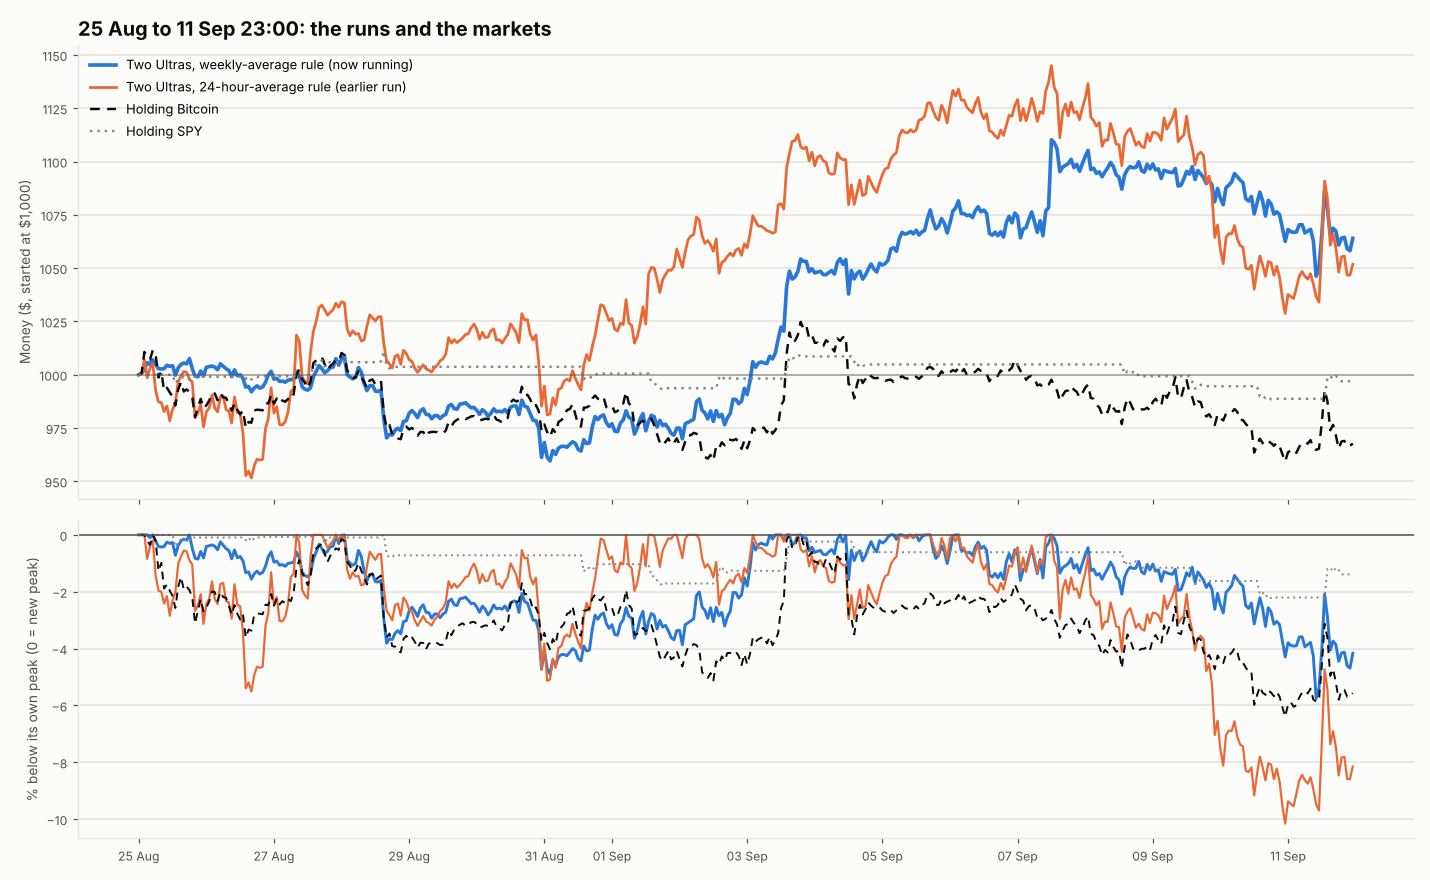
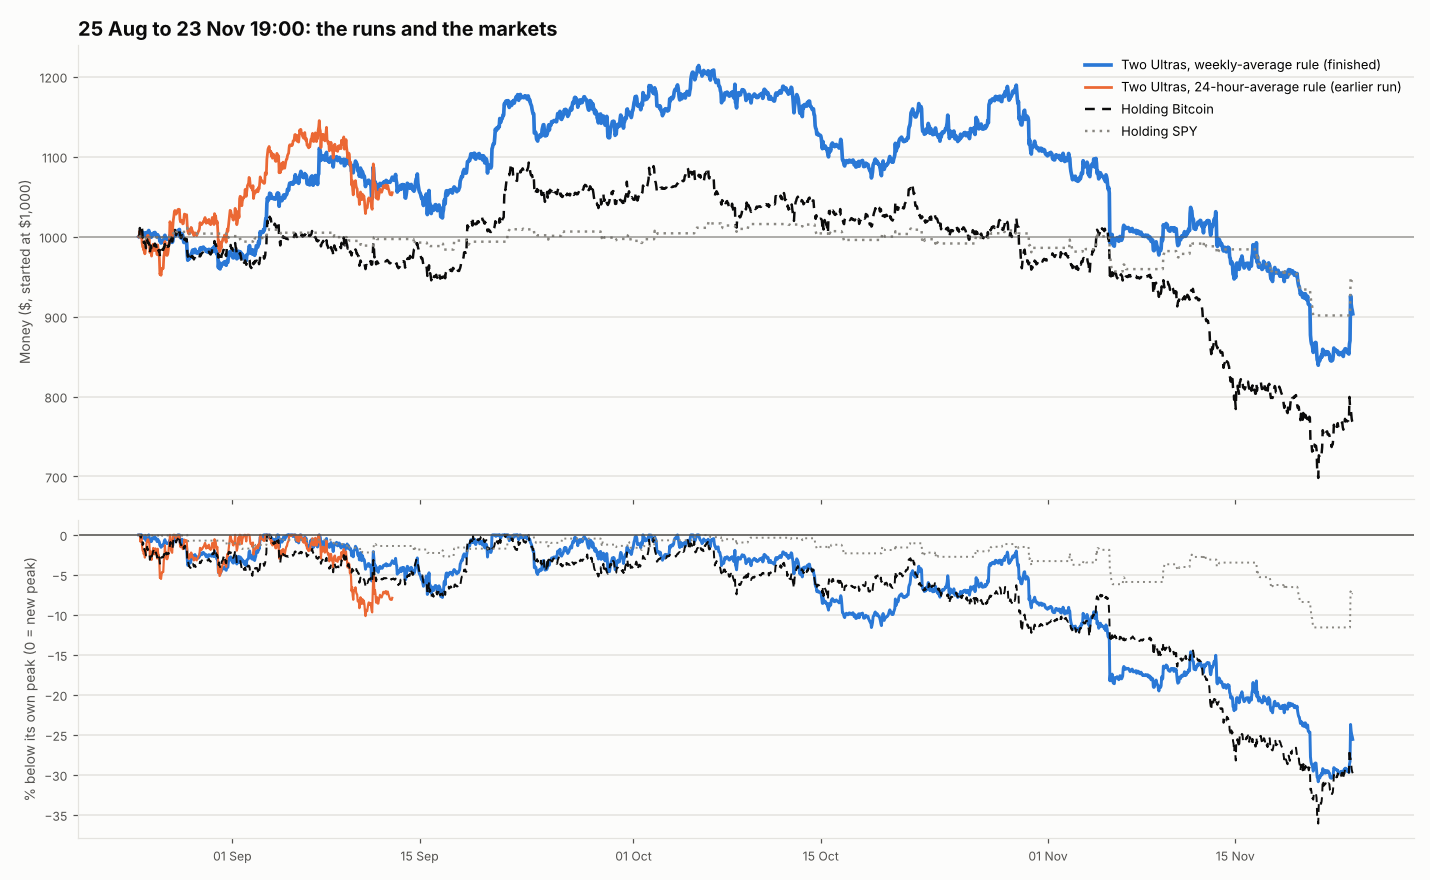
Weekly-rule two-Ultra run finished: final results and update graph
Claude-Session: https://claude.ai/code/session_01Q4zuW2hFjpzuH9a9JaFPqg

diff --git a/mixed/update_chart.py b/mixed/update_chart.py
@@ -26,7 +26,7 @@ def main():
     t_end = wk[-1]["time"]
     old = [r for r in old if r["time"] <= t_end]                      # same dates only
     series = {
-        "Two Ultras, weekly-average rule (now running)": (wk, "value", "#2a78d6", 2.4),
+        "Two Ultras, weekly-average rule (finished)": (wk, "value", "#2a78d6", 2.4),
         "Two Ultras, 24-hour-average rule (earlier run)": (old, "value", "#eb6834", 1.8),
         "Holding Bitcoin": (wk, "btc_hold", INK, 1.6),
         "Holding SPY": (wk, "spy_hold", "#898781", 1.6)}
